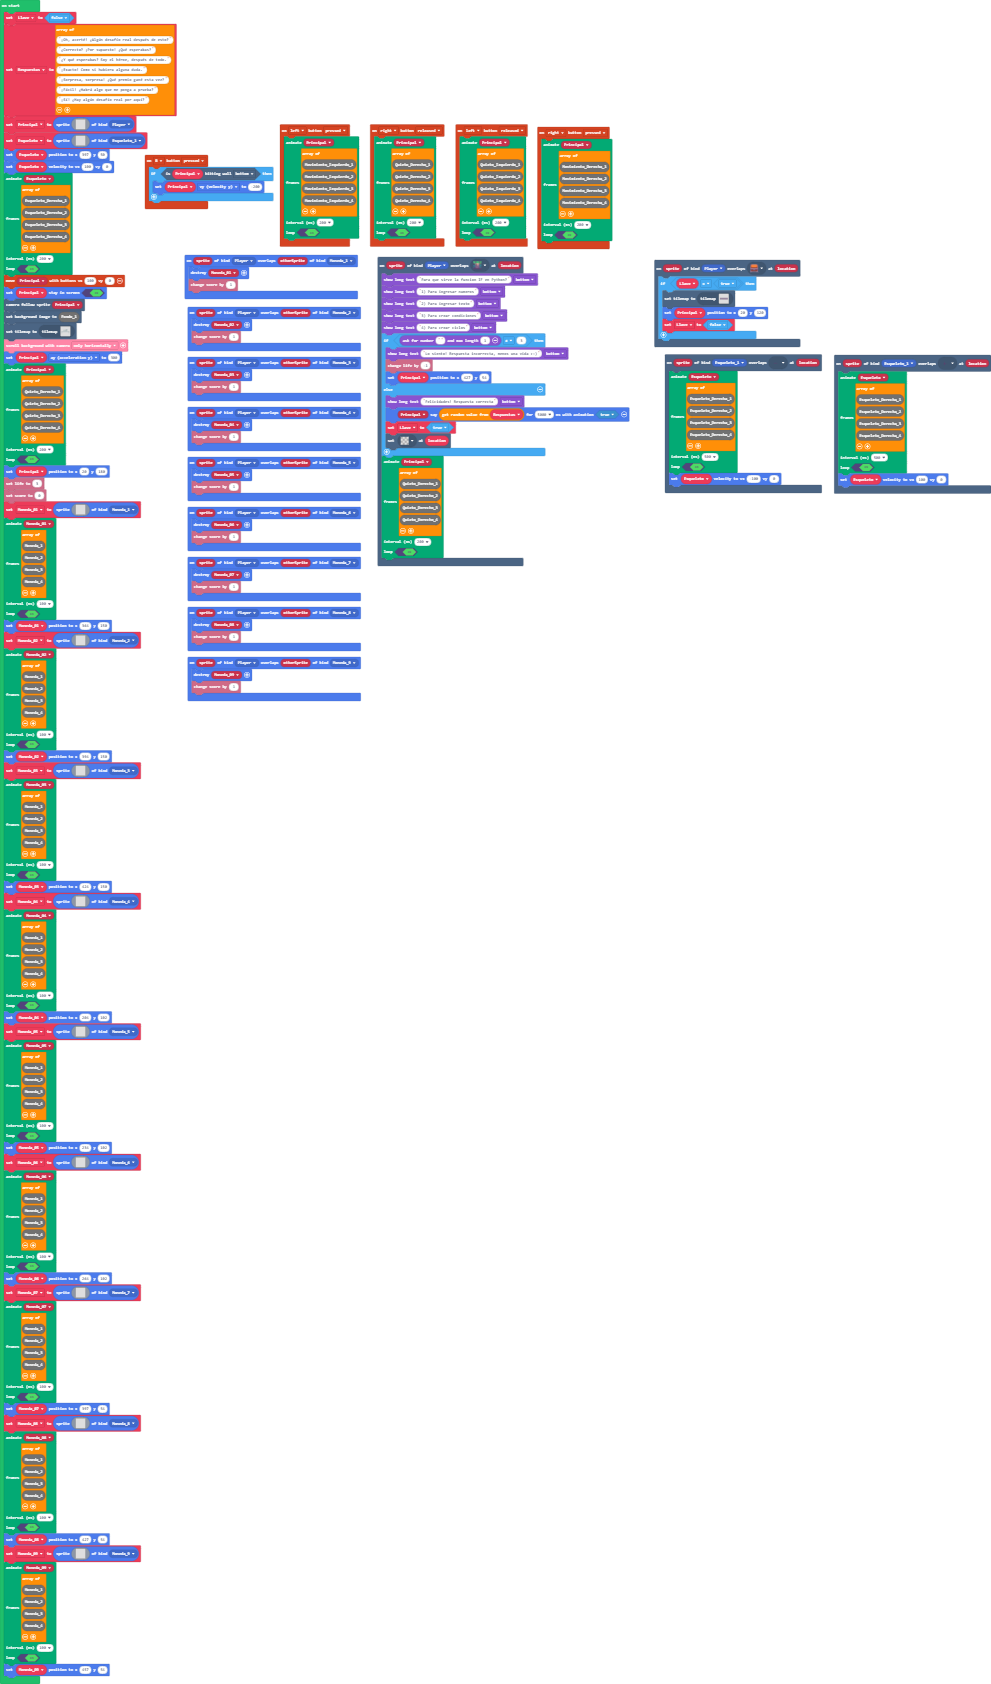
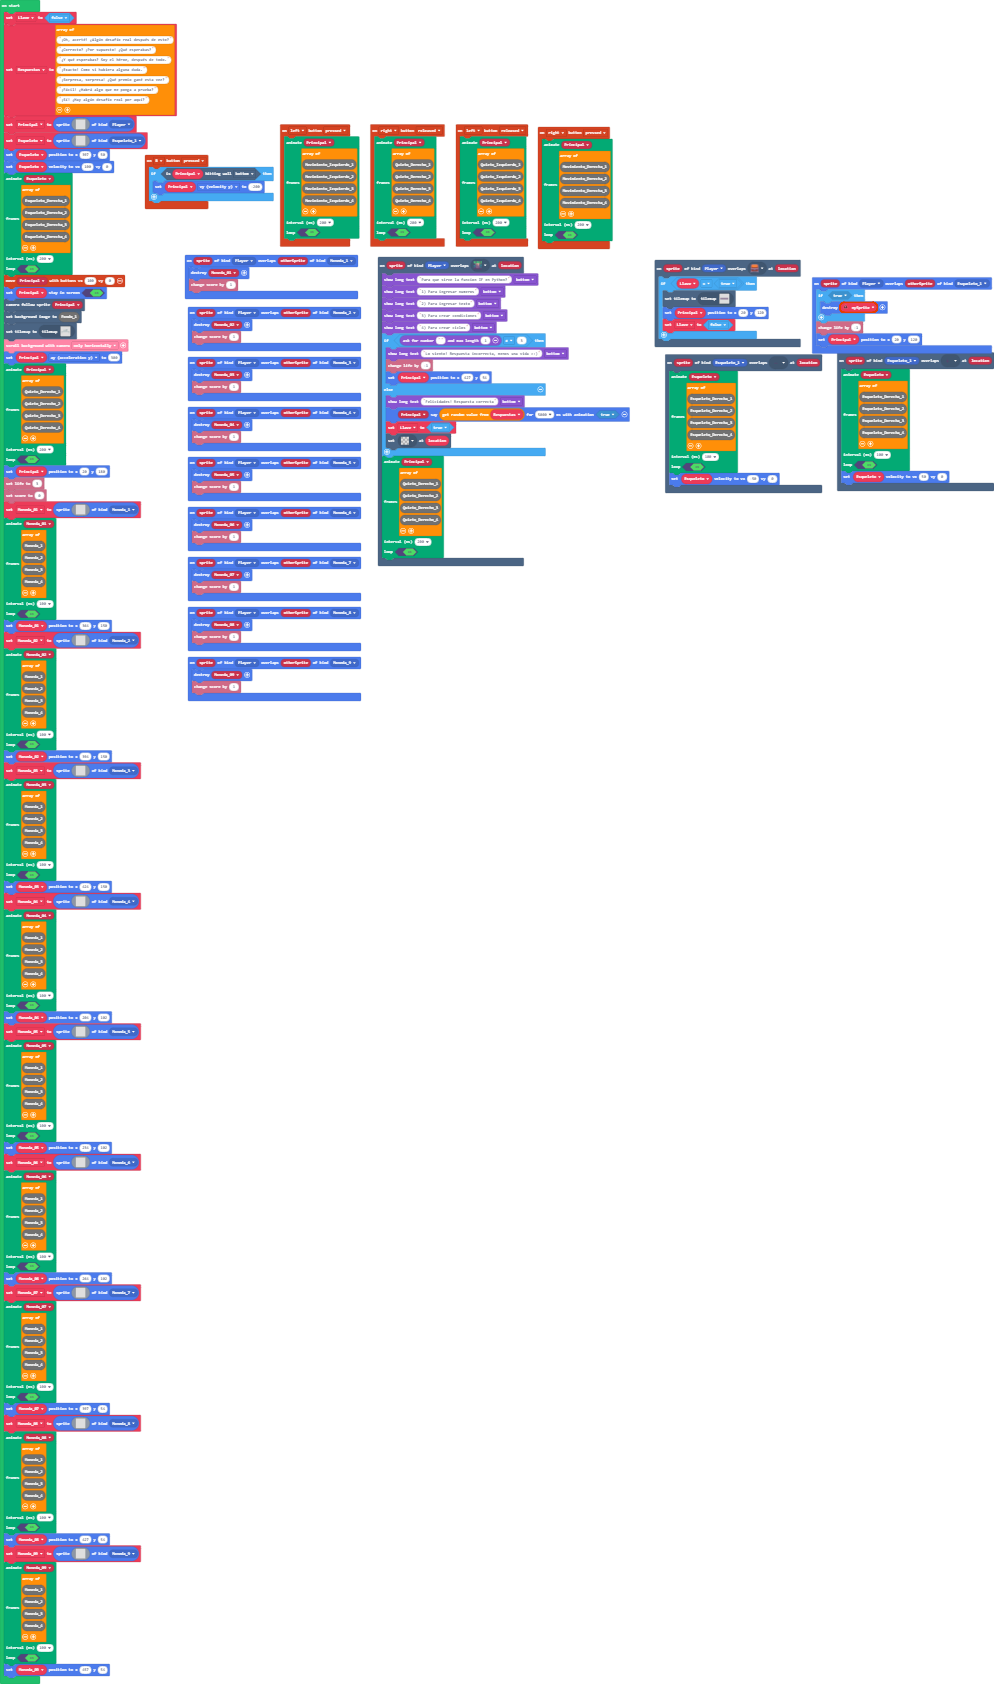
Mejora del Esquleto

diff --git a/main.ts b/main.ts
@@ -64,6 +64,14 @@ sprites.onOverlap(SpriteKind.Player, SpriteKind.Moneda_7, function (sprite, othe
     sprites.destroy(Moneda_07)
     info.changeScoreBy(1)
 })
+sprites.onOverlap(SpriteKind.Player, SpriteKind.Esqueleto_1, function (sprite, otherSprite) {
+    if (true) {
+        let mySprite: Sprite = null
+        sprites.destroy(mySprite)
+    }
+    info.changeLifeBy(-1)
+    Principal.setPosition(20, 120)
+})
 controller.right.onEvent(ControllerButtonEvent.Released, function () {
     animation.runImageAnimation(
     Principal,
@@ -94,15 +102,15 @@ scene.onOverlapTile(SpriteKind.Esqueleto_1, assets.tile`Izquierda`, function (sp
     animation.runImageAnimation(
     Esqueleto,
     [
-    Esqueleto_Derecha_1,
-    Esqueleto_Derecha_2,
-    Esqueleto_Derecha_3,
-    Esqueleto_Derecha_4
+    Esqueleto_Izquierda_1,
+    Esqueleto_Izquierda_2,
+    Esqueleto_Izquierda_3,
+    Esqueleto_Izquierda_4
     ],
-    500,
+    100,
     true
     )
-    Esqueleto.setVelocity(-100, 0)
+    Esqueleto.setVelocity(-50, 0)
 })
 scene.onOverlapTile(SpriteKind.Player, sprites.dungeon.chestClosed, function (sprite, location) {
     if (Llave == true) {
@@ -157,10 +165,10 @@ scene.onOverlapTile(SpriteKind.Esqueleto_1, assets.tile`Derecha0`, function (spr
     Esqueleto_Derecha_3,
     Esqueleto_Derecha_4
     ],
-    500,
+    100,
     true
     )
-    Esqueleto.setVelocity(100, 0)
+    Esqueleto.setVelocity(50, 0)
 })
 sprites.onOverlap(SpriteKind.Player, SpriteKind.Moneda_6, function (sprite, otherSprite) {
     sprites.destroy(Moneda_06)

diff --git a/Esqueleto_Izquierda_1.ts b/Esqueleto_Izquierda_1.ts
@@ -1,0 +1,24 @@
+// Add your code here
+const Esqueleto_Izquierda_1 = img`
+    0 0 0 0 0 0 0 0 0 0 0 0 0 0 0 0 0
+    0 0 0 0 0 f f f f f f f f 0 0 0 0
+    0 0 0 0 f d d d d d d d d f 0 0 0
+    0 0 0 f d d d d d d d d d d f 0 0
+    0 0 0 f d d d d d d d d d d f 0 0
+    0 0 0 f d d d d d d d d d d f 0 0
+    0 0 0 f d d d d d d d d d d f 0 0
+    0 0 0 f d d d d d d d d d d f 0 0
+    0 0 0 f f f d d d f f d d d f 0 0
+    0 0 0 f f f d d d f f d d d f 0 0
+    0 0 0 f d d d f d d d d d d f 0 0
+    0 0 0 0 f d d d d d d d d f 0 0 0
+    0 0 0 0 f d f d f d f f f 0 0 0 0
+    0 0 0 0 f f f f f f d d f f 0 0 0
+    0 0 0 f d f d d d d d d d d f 0 0
+    0 0 0 f d f d d d d d f d d f 0 0
+    0 0 0 0 f f d d d d d d f f 0 0 0
+    0 0 0 0 0 f d f f f f d f 0 0 0 0
+    0 0 0 0 0 f d f 0 0 f d f 0 0 0 0
+    0 0 0 0 0 f d f 0 0 f d f 0 0 0 0
+    0 0 0 0 0 f f f 0 0 f f f 0 0 0 0
+    `;

diff --git a/Esqueleto_Izquierda_2.ts b/Esqueleto_Izquierda_2.ts
@@ -1,0 +1,24 @@
+// Add your code here
+const Esqueleto_Izquierda_2 = img`
+    0 0 0 0 0 0 0 0 0 0 0 0 0 0 0 0 0
+    0 0 0 0 0 0 0 0 0 0 0 0 0 0 0 0 0
+    0 0 0 0 0 f f f f f f f f 0 0 0 0
+    0 0 0 0 f d d d d d d d d f 0 0 0
+    0 0 0 f d d d d d d d d d d f 0 0
+    0 0 0 f d d d d d d d d d d f 0 0
+    0 0 0 f d d d d d d d d d d f 0 0
+    0 0 0 f d d d d d d d d d d f 0 0
+    0 0 0 f d d d d d d d d d d f 0 0
+    0 0 0 f f f d d d f f d d d f 0 0
+    0 0 0 f f f d d d f f d d d f 0 0
+    0 0 0 f d d d f d d d d d d f 0 0
+    0 0 0 0 f d d d d d d d d f 0 0 0
+    0 0 0 f f d f d f d f f f f f 0 0
+    0 0 f d d f f f f f d d f d d f 0
+    0 0 f d d f d d d d d d f d d f 0
+    0 0 0 f f f d d d d d d f f f 0 0
+    0 0 0 0 0 f d f f f f d f 0 0 0 0
+    0 0 0 0 0 0 f d f f d f 0 0 0 0 0
+    0 0 0 0 0 0 0 f d d f 0 0 0 0 0 0
+    0 0 0 0 0 0 0 f f f f 0 0 0 0 0 0
+    `;

diff --git a/Esqueleto_Izquierda_3.ts b/Esqueleto_Izquierda_3.ts
@@ -1,0 +1,24 @@
+// Add your code here
+const Esqueleto_Izquierda_3 = img`
+    0 0 0 0 0 0 0 0 0 0 0 0 0 0 0 0 0
+    0 0 0 0 0 f f f f f f f f 0 0 0 0
+    0 0 0 0 f d d d d d d d d f 0 0 0
+    0 0 0 f d d d d d d d d d d f 0 0
+    0 0 0 f d d d d d d d d d d f 0 0
+    0 0 0 f d d d d d d d d d d f 0 0
+    0 0 0 f d d d d d d d d d d f 0 0
+    0 0 0 f d d d d d d d d d d f 0 0
+    0 0 0 f f f d d d f f d d d f 0 0
+    0 0 0 f f f d d d f f d d d f 0 0
+    0 0 0 f d d d f d d d d d d f 0 0
+    0 0 0 0 f d d d b d d d d f 0 0 0
+    0 0 0 0 f d f d f d f f f 0 0 0 0
+    0 0 0 0 f f f f f f d d f f 0 0 0
+    0 0 0 f d f d d d d d d d d f 0 0
+    0 0 0 f d f d d d d d f d d f 0 0
+    0 0 0 0 f f d d d d d d f f 0 0 0
+    0 0 0 0 0 f d f f f f d f 0 0 0 0
+    0 0 0 0 0 f d f 0 0 f d f 0 0 0 0
+    0 0 0 0 0 f d f 0 0 f d f 0 0 0 0
+    0 0 0 0 0 f f f 0 0 f f f 0 0 0 0
+    `;

diff --git a/Esqueleto_Izquierda_4.ts b/Esqueleto_Izquierda_4.ts
@@ -1,0 +1,24 @@
+// Add your code here
+const Esqueleto_Izquierda_4 = img`
+    0 0 0 0 0 0 0 0 0 0 0 0 0 0 0 0 0
+    0 0 0 0 0 0 0 0 0 0 0 0 0 0 0 0 0
+    0 0 0 0 0 f f f f f f f f 0 0 0 0
+    0 0 0 0 f d d d d d d d d f 0 0 0
+    0 0 0 f d d d d d d d d d d f 0 0
+    0 0 0 f d d d d d d d d d d f 0 0
+    0 0 0 f d d d d d d d d d d f 0 0
+    0 0 0 f d d d d d d d d d d f 0 0
+    0 0 0 f d d d d d d d d d d f 0 0
+    0 0 0 f f f d d d f f d d d f 0 0
+    0 0 0 f f f d d d f f d d d f 0 0
+    0 0 0 f d d d f d d d d d d f 0 0
+    0 0 0 0 f d d d d d d d d f 0 0 0
+    0 0 0 0 f d f d d f d f f 0 0 0 0
+    0 0 0 0 0 f f f f d d f f 0 0 0 0
+    0 0 0 0 0 f d d f d d f f 0 0 0 0
+    0 0 0 0 0 f d d d f f d f 0 0 0 0
+    0 0 0 0 0 f d f f f f d f 0 0 0 0
+    0 0 0 0 f d f 0 0 0 f d f 0 0 0 0
+    0 0 0 f d f 0 0 0 0 0 f d f 0 0 0
+    0 0 0 f f f 0 0 0 0 0 f f f 0 0 0
+    `;
